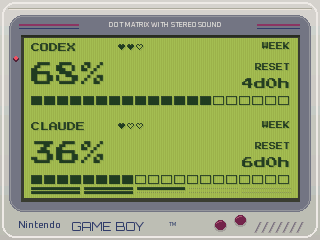
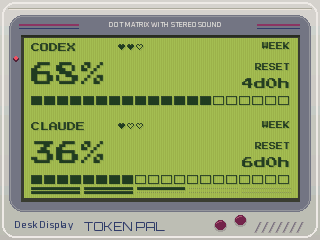
Regenerate the Game Boy previews with the new bezel words
game-boy.png and game-boy.gif come from scripts/render_animations.py's own fixture (fictional readings), and the first tile of gallery.png and social-preview.png is the same page; the other seven tiles are byte-identical to before. screen-library.png is a browser screenshot, so only its bezel text band was replaced; its README cache-buster is updated.

Changed region(s): [[0.0312, 0.9042, 0.5, 0.9625], [0.5312, 0.9042, 0.5625, 0.9625]]

diff --git a/README.md b/README.md
@@ -58,7 +58,7 @@ The eight slots are yours to rearrange. The local **Desk display** page lets you
 
 The **Usage dashboard** can also display any available scene on your computer, above its detailed usage cards. Its choice belongs to that browser and **doesn't change the physical display**. The dashboard also retains its classic appearances. Both pages offer **English and Spanish**, with English as the default.
 
-![The screen library in the local usage dashboard, showing fictional readings](docs/images/screen-library.png?v=8461e5b0ec)
+![The screen library in the local usage dashboard, showing fictional readings](docs/images/screen-library.png?v=ce771ccb7b)
 
 Two additional photo scenes, **Violet Horizon** and **Neon District**, become available when you supply the matching local images. The platform, fight and beach scenes also support optional local artwork, as shown above. No game ROMs, source sprite files or private photo collections are shipped. See the guides for the [control room](docs/board-control.md), [platform](docs/board-platform.md), [fight](docs/board-versus.md) and [beach](docs/board-paradise.md).
 
